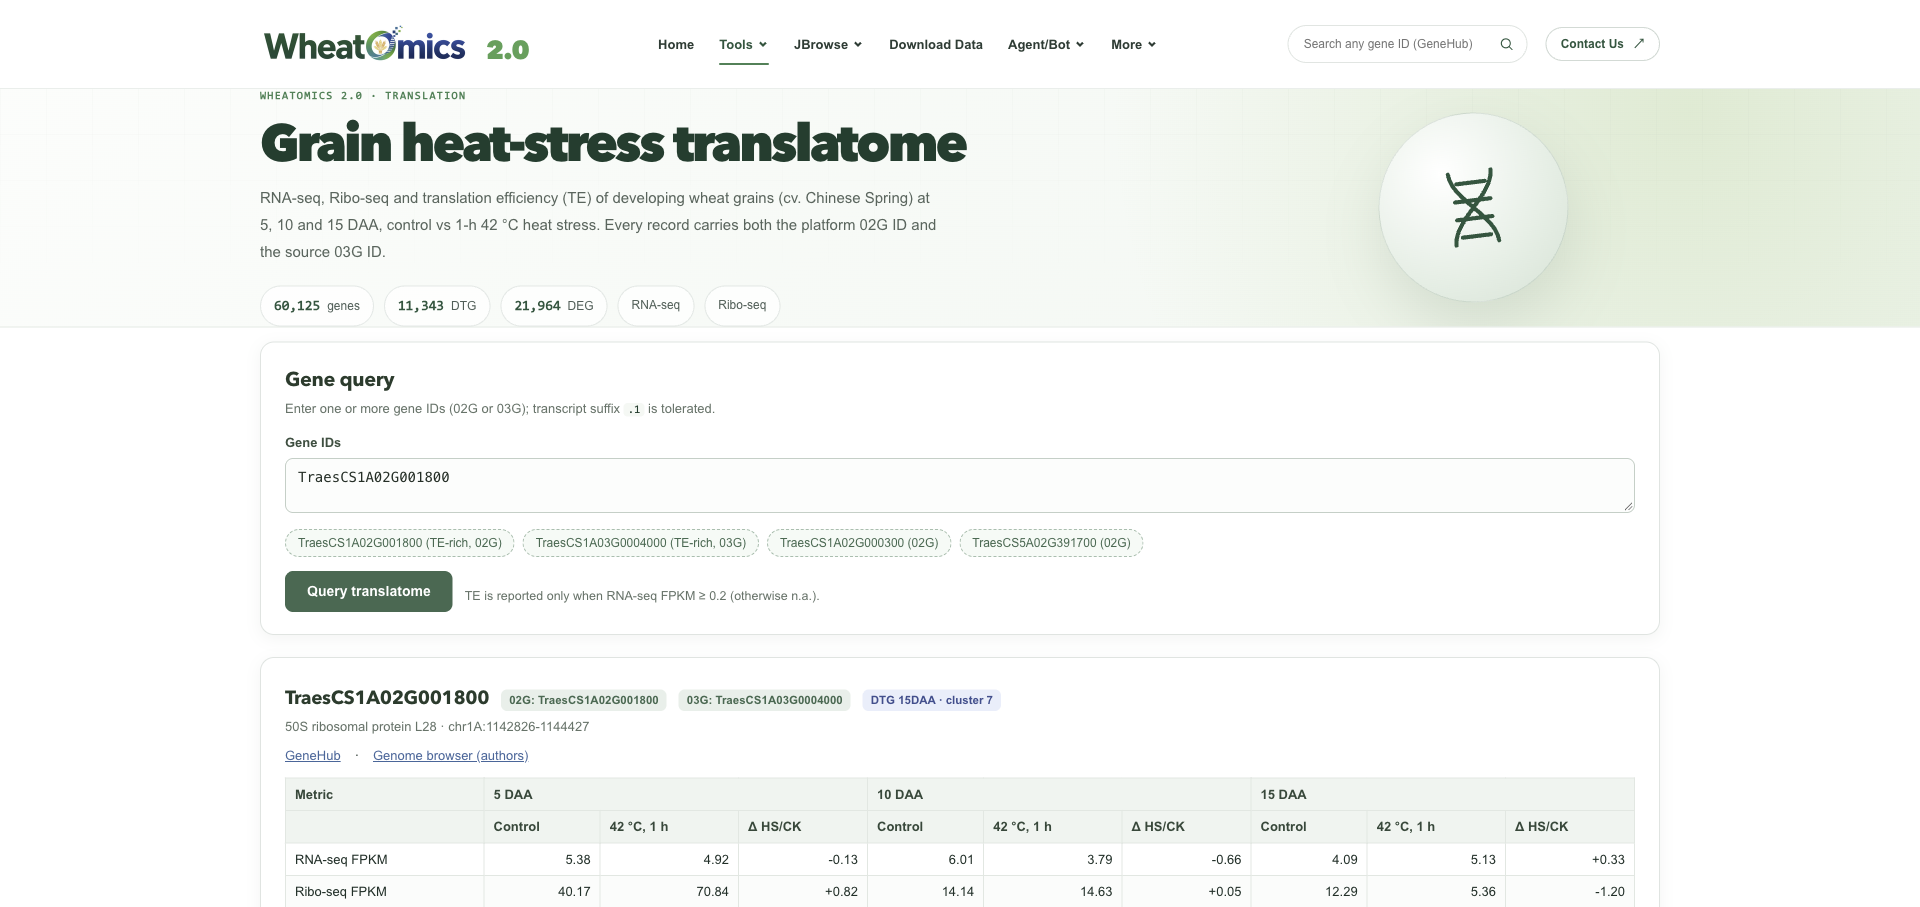
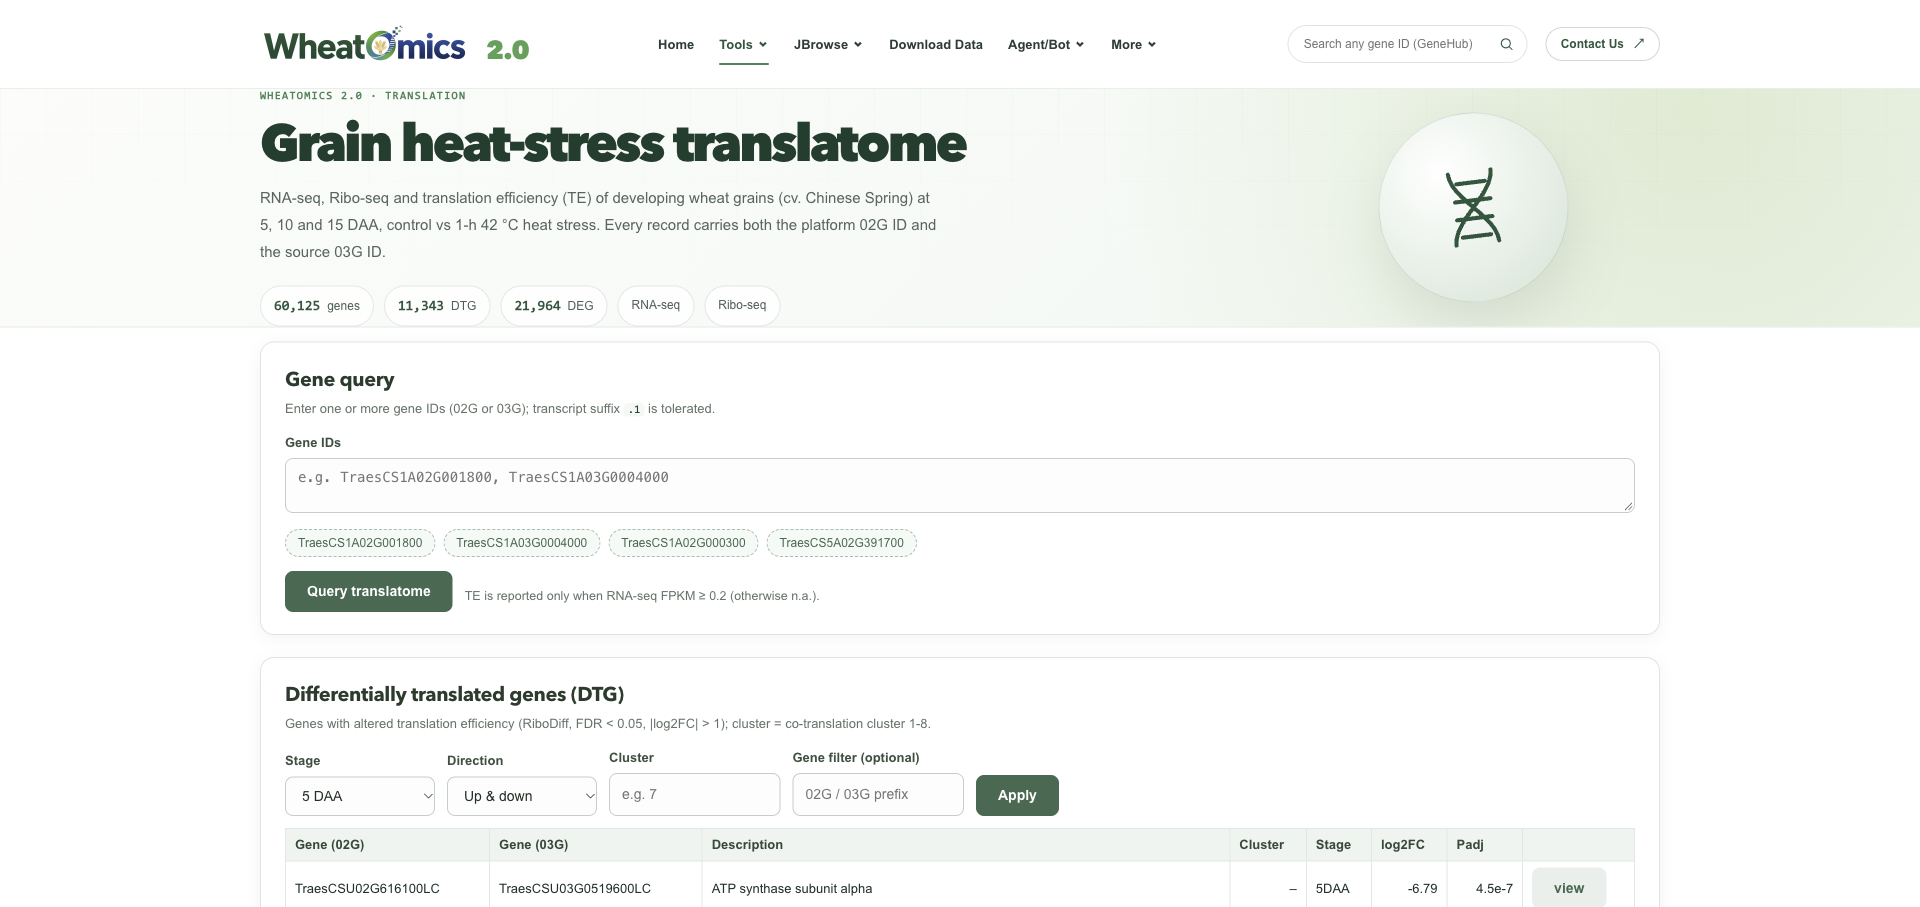
fix(translatome): use plain gene IDs for example chips (TE = translation efficiency, not transposon)

diff --git a/scripts/heat_translatome/build_data.py b/scripts/heat_translatome/build_data.py
@@ -357,10 +357,10 @@ def build_manifest(counts: dict[str, int]) -> dict[str, Any]:
                            "Chen et al. 2025 (Genome Biology); the only transformations here are a "
                            "03G->02G gene-ID cross-reference and row/column renaming for web display.",
         "examples": [
-            {"label": "TraesCS1A02G001800 (TE-rich, 02G)", "gene": "TraesCS1A02G001800"},
-            {"label": "TraesCS1A03G0004000 (TE-rich, 03G)", "gene": "TraesCS1A03G0004000"},
-            {"label": "TraesCS1A02G000300 (02G)", "gene": "TraesCS1A02G000300"},
-            {"label": "TraesCS5A02G391700 (02G)", "gene": "TraesCS5A02G391700"},
+            {"label": "TraesCS1A02G001800", "gene": "TraesCS1A02G001800"},
+            {"label": "TraesCS1A03G0004000", "gene": "TraesCS1A03G0004000"},
+            {"label": "TraesCS1A02G000300", "gene": "TraesCS1A02G000300"},
+            {"label": "TraesCS5A02G391700", "gene": "TraesCS5A02G391700"},
         ],
         "version": "v1",
         "generated": "2026-11-11",

diff --git a/docs/plans/heat_translatome_2026-11/DEPLOYMENT_2026-11-11.md b/docs/plans/heat_translatome_2026-11/DEPLOYMENT_2026-11-11.md
@@ -59,3 +59,14 @@ WheatOmics **Phase 2 + 2.5**（热胁迫籽粒 translatome 模块，manifest/reg
 - **授权**：GB 2025 为 CC BY-NC-ND 4.0、PlCell 非 OA；页面已标注引用/license，但正式对外传播建议取得通讯作者书面同意（模板见 `PLAN.md` 附录 B）。
 - 数据集状态 `prototype`；确认后可在 `registry.json` 改为 `public` 并更新页面。
 - 后续新数据集：按 `PHASE2_EXTENSIBILITY.md` §6 加文件夹 + manifest + registry 一行，`sync_assets.sh` 上传资产即可（不改代码）。
+
+## Post-deploy copy fix (2026-11-11 evening)
+
+- Example chips on `/translatome/` no longer say "TE-rich" (TE = translation
+  efficiency; the wording could be misread as transposable element). The chips
+  now show plain gene IDs (02G/03G): `TraesCS1A02G001800`, `TraesCS1A03G0004000`,
+  `TraesCS1A02G000300`, `TraesCS5A02G391700`.
+- Changed `app/services/data/translatome/chen2025_cs_grain_heat/manifest.json`
+  (`examples[].label`) and the builder output in
+  `scripts/heat_translatome/build_data.py`; API restarted so the cached manifest
+  is reloaded. Screenshots refreshed.
